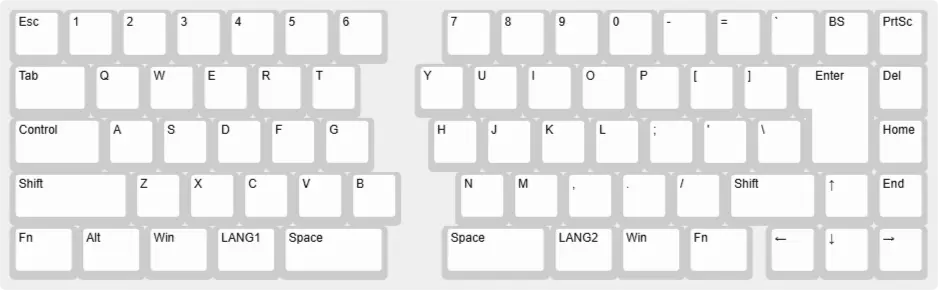
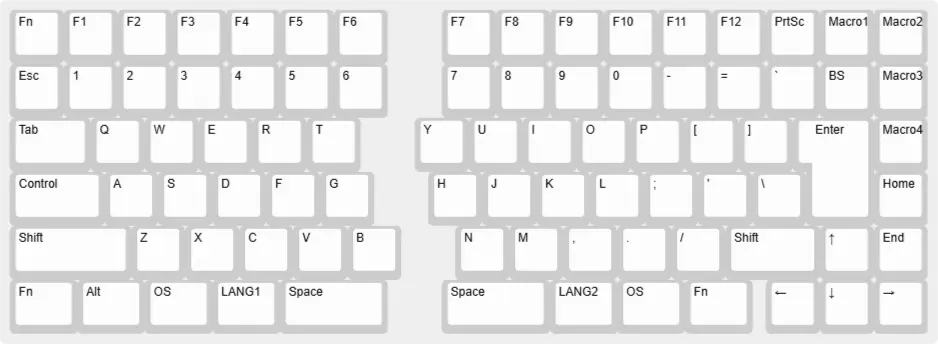
docs: Edit an article

diff --git a/docs/posts/16-J2J.md b/docs/posts/16-J2J.md
@@ -14,14 +14,12 @@ tags:
   - post2026
   - arduino
   - ccpp
-  - midi
   - otherdiy
 ---
 
 # 理想の分割キーボードを自作
 
 [<Badge type="tag" text="その他の工作" />](../tags/otherdiy)
-[<Badge type="tag" text="MIDI" />](../tags/midi)
 [<Badge type="tag" text="Arduino" />](../tags/arduino)
 [<Badge type="tag" text="C/C++" />](../tags/ccpp)
 
@@ -46,8 +44,8 @@ tags:
 JIS配列のREALFORCEのスライダーをCherry MX軸に総交換して、Windows側の設定でUS配列キーボードとして認識させて
 
 - US配列
-- ただしEnterキーはISOタイプ
-- 変換・無変換キー（実際にはLANG1・LANG2キー）有り
+- ただし`Enter`キーはISOタイプ
+- 変換・無変換キー（実際には`LANG1`、`LANG2`キー）有り
 
 として2年ほど愛用してきたのですが、これの分割バージョンが欲しくなりました。
 
@@ -56,10 +54,10 @@ JIS配列のREALFORCEのスライダーをCherry MX軸に総交換して、Windo
     '/images/2026/16-02.webp'
   ]"
   type="double"
-  caption="ｼﾃ…ｺﾛｼﾃ…されたREALFORCE R3S。キーキャップがかわいい"
+  caption="ｼﾃ…ｺﾛｼﾃ…されたREALFORCE R3S。AliExpressで買ったキーキャップがかわいい"
 />
 
-当然そんなものはありません。仕方がないので、_Just the Two of JIS_[^1]と銘打って理想のキーボードを作ってみることにしました。諸々のデータは[GitHub](https://github.com/asumo-1xts/J2J 'Just the Two of JIS')にて公開しています。
+当然そんなものはありません。仕方がないので、_Just the Two of JIS_[^1]と銘打って理想のキーボードを作ってみることにしました。諸々のデータは[GitHub](https://github.com/asumo-1xts/J2J 'J2J')にて公開しており、ここで全部は貼りません。
 
 ### 教材
 
@@ -71,20 +69,20 @@ JIS配列のREALFORCEのスライダーをCherry MX軸に総交換して、Windo
 
 - Windows 11
 - QMK 1.2.0
-- KiCad 9.0.8
+- KiCad 10.0.1
 - FreeCAD 1.1.1
 
 ## 構想
 
-レイアウトから考え始めて、以下のような仕様に落ち着きました。
+キー配列から考え始めて、以下のような仕様に落ち着きました。
 
-| 項目            | 仕様                                                      |
-| --------------- | --------------------------------------------------------- |
-| 接続・給電      | 有線のみ                                                  |
-| レイアウト      | 疑似JIS 64キー<br/>= US 64キー + ISO Enter + LANG1, LANG2 |
-| キーマップ変更  | 可                                                        |
-| ホットスワップ  | 可                                                        |
-| LEDライティング | 不可                                                      |
+| 項目            | 仕様                                                            |
+| --------------- | --------------------------------------------------------------- |
+| 接続・給電      | 有線のみ                                                        |
+| レイアウト      | 疑似JIS 64キー<br/>= US 64キー + ISO `Enter` + `LANG1`, `LANG2` |
+| キーマップ変更  | 可                                                              |
+| ホットスワップ  | 可                                                              |
+| LEDライティング | 可                                                              |
 
 <ImageGroup
   :sources="[
@@ -94,16 +92,53 @@ JIS配列のREALFORCEのスライダーをCherry MX軸に総交換して、Windo
   caption="ありがとう、Keyboard Layout Editor"
 />
 
-また、以前何かの拍子に購入したKailh Deep Sea Silent mini Isletを手元で持て余していたのでロープロファイルで作ることにしました。一応Cherryプロファイル版も温めてはいます。
+また、以前何かの拍子に購入したKailh Deep Sea Silent mini Isletを手元で持て余していたので、ひとまずロープロファイルで作ることにしました。
+
+## PCB基板
+
+とにもかくにも、回路図を引いてPCB基板を設計します。
+
+### ProMicroを諦めよう
+
+自作キーボードのデファクトスタンダードに倣ってSparkFun ProMicroを使う気でいたのですが、キースイッチの裏にProMicroを隠そうとするとキーボードがその分だけ分厚くなってしまうことに気付きました。かと言ってキースイッチの無いところにProMicroを置くと今度はキーボードの面積が大きくなってしまいます。
+
+仕方が無いので、SparkFunが公開しているProMicroの[回路図](https://cdn.sparkfun.com/datasheets/Dev/Arduino/Boards/Pro_Micro_v13b.pdf 'SparkFun ProMicro')を基に、ATmega32u4およびその他の関連部品を自前で基板に直付けすることにしました。
+
+<ImageGroup
+  :sources="[
+    '/images/2026/16-04.webp'
+  ]"
+  type="double"
+  caption="ビアがやけくそすぎる！本職の方々はすごい"
+/>
+
+これには副産物として以下のような嬉しさも付いてきます。
+
+- ProMicroが引き出さずに余らせているATmega32u4のI/Oピンをフル活用できる
+- 別にArduinoとして使うわけではないので、ブートローダーを書き込む苦労について心配しなくて良い
+
+### おすすめフットプリントライブラリ
+
+キースイッチのフットプリントは有志の方々がGitHubに公開してくれているものを使うと良いのですが、如何せん（自作キーボードのコミュニティが広大なおかげで）選択肢が複数あって迷ってしまうかもしれません。私が試した限りでは、「PCBエディタのグリッド間隔を1/8 u (= 19.05/8 mm)にしたとき確実にぴったり並んでくれる」という点において[koktoh](https://github.com/koktoh 'koktoh')氏の公開しているライブラリが最も良かったです。
+
+[BrownSugar Keyboard KiCad Library](@:https://github.com/koktoh/BrownSugar_KBD_KiCad_Library)
+
+Cherry MXシリーズしか収録されていないのでKailh Chocシリーズ等を使う場合には他のライブラリを探す必要がありますが、それでも一旦はこのライブラリのフットプリントで並べておいて後から置換すると確実です。
+
+### 発注
+
+配線を何とか引き回してJLCPCBに発注をかけたら、左右それぞれ5枚ずつでXX円でした。ﾋｰ。
+
+::: tip
+RGBカラーLEDの定番であるWS2812BはJLCPCBのPCBAサービスにおいてエコノミープラン対象外らしく、実装してもらうためには大きめのお金を積んでスタンダードプランで発注する必要があるとのことでした。
+大量生産する訳でもないので、今回は自前で買ってきてはんだ付けしました。
+:::
 
 ## ファームウェア
 
-幸いにも[冒頭](#教材)で紹介した教材では分割キーボードがお手本になっていたので、QMK周りであまり躓かずに済みました。
+幸いにも[教材](#教材)のお手本モデルが分割キーボードだったので、QMK周りであまり躓かずに済みました。QMKは現在も開発が続いており、特にその破壊的変更の影響で新しそうに見えるネット上の情報が少し古かったりします。
 
-ささやかな自分なりのカスタマイズとして、`keymap.c`にて以下の機能を追加しました。
-
-- 現在のレイヤーを2つのLEDの点灯状況でインジケート
-- Mキーをを押しながら電源を入れるとMIDIコントローラ化する
+特に変わったことはしていませんが、ゲーミングな雰囲気は基本的に不要なので`L`キーを押しながら電源を投入したときだけLEDが点灯するようにしました。
 
 ::: code-group
 
@@ -112,29 +147,18 @@ JIS配列のREALFORCEのスライダーをCherry MX軸に総交換して、Windo
 
 // 電源投入時に走る関数
 void keyboard_post_init_user(void) {
-    setPinOutput(LED_LAYER_1);
-    setPinOutput(LED_LAYER_2);
-    flash_led(100);
+	_delay_ms(50); // 安定化を待つ
     matrix_scan();
-    // 8行2列のMキーが押されているかを確認
-    if (matrix_get_row(8) & (1 << 2)) {
-        set_single_default_layer(2);    // レイヤー2をデフォルトに設定
+    // 9行3列のLキーが押されているかを確認
+    if (matrix_get_row(9) & (1 << 3)) {
+        rgblight_enable_noeeprom();
+        for (int i = 0; i < 37; i++) { // 左手側
+            rgblight_sethsv_at(180, 97, 57, i);
+        }
+        for (int i = 37; i < 87; i++) { // 右手側
+            rgblight_sethsv_at(180, 97, 57, i);
+        }
     }
-}
-
-// デフォルトレイヤーが変わったときに呼ばれる関数
-layer_state_t default_layer_state_set_user(layer_state_t state) {
-    if (get_highest_layer(state) == 1) {
-        writePinHigh(LED_LAYER_1);
-        writePinLow(LED_LAYER_2);
-    } else if (get_highest_layer(state) == 2) {
-        writePinLow(LED_LAYER_1);
-        writePinHigh(LED_LAYER_2);
-    } else {
-        writePinLow(LED_LAYER_1);
-        writePinLow(LED_LAYER_2);
-    }
-    return state;
 }
 
 ...
@@ -142,29 +166,13 @@ layer_state_t default_layer_state_set_user(layer_state_t state) {
 
 :::
 
-::: tip
-
-レイヤーや機能を追加するとファームウェアの容量がかなりシビアになります。以下の記事に助けられて何とか95%に収めることができました。
-
-[QMKでPro Micro用のファームを小さくする](@:https://zenn.dev/koron/articles/98324ab760e83a)
-
-:::
-
-## PCB基板
-
-キースイッチのフットプリントは有志の方々がGitHubに公開してくれているものを使うと良いのですが、如何せん（自作キーボードのコミュニティが広大なおかげで）選択肢が複数あって迷ってしまうかもしれません。私が試した限りでは、「PCBエディタのグリッド間隔を1/8 u (= 19.05/8 mm)にしたとき確実にぴったり並んでくれる」という点において[koktoh](https://github.com/koktoh 'koktoh')氏の公開しているライブラリが最も良かったです。
-
-[BrownSugar Keyboard KiCad Library](@:https://github.com/koktoh/BrownSugar_KBD_KiCad_Library)
-
-Cherry MXシリーズしか収録されていないのでKailh Chocシリーズ等を使う場合には他のライブラリを探す必要がありますが、それでも一旦はこのライブラリのフットプリントで並べておいて後から置換すると確実でした。
-
 ## 筐体
 
 ### 設計
 
-当初は基板プレート3枚による単純なサンドイッチ方式を考えていたのですが、周囲にスペーサーを積層して隙間を無くしたいなと思い直し、どうせならプレートと周囲のスペーサーを一体化して3Dプリントするのが良いのでは？というところに落ち着きました。
+当初はPC基板3枚による単純なサンドイッチ方式を考えていたのですが、周囲にスペーサーを積層して隙間を無くしたいなと思い直し、どうせならプレートと周囲のスペーサーを一体化して3Dプリントするのが良いのでは？というところに行き着きました。
 
-私は3DCAD全般があまり好きでないので、KiCadで各階層のパーツを作ってSTEPファイルに書き出してから、それらのアセンブルだけFreeCADで行いました。A2plusというワークベンチを利用して面と穴の拘束条件を2つほど与えれば、所望のアセンブリが完成します。
+私は3DCAD全般があまり得意でないので、KiCadで各階層のパーツを作ってSTEPファイルに書き出してから、それらのアセンブルだけFreeCADで行いました。A2plusというワークベンチを利用して面と穴の拘束条件を2つほど与えると所望のアセンブリが完成します。
 
 todo: ここに画像
 
@@ -176,6 +184,7 @@ KiCadの基板厚はPCBエディタの「ファイル > 基板の設定 > 物理
     '/images/2026/16-05.webp'
   ]"
   type="big"
+  caption="このウィンドウはKiCad v9のものです"
 />
 :::
 
@@ -183,27 +192,27 @@ KiCadの基板厚はPCBエディタの「ファイル > 基板の設定 > 物理
 
 上下方向のクリアランスを考えるのが大変でノイローゼ気味になったので、（よほどの空間把握能力をお持ちでない限りは）ある程度まで煮詰まったら安い材料で発注してしまうのが精神衛生のためかもしれません。こういうのって実物の有無で全然違うなと思います。
 
-私の場合は幸運にも会社の同期が3Dプリンターを持っていて、STEPファイルを渡したら全部やってくれました。ありがとう…
+私の場合は幸運にも会社の同期が3Dプリンターを持っていて、STEPファイルを渡したら全部やってくれました[^3]。ありがとう…
 
 <ImageGroup
   :sources="[
-    '/images/2026/16-04.webp'
+    '/images/2026/16-06.webp'
   ]"
   type="double"
   caption="持つべきものは3Dプリンターを持っている隣人"
 />
 
+なおこれらの固定方法について、3DプリンターでM2ねじのタップを切るのは非現実的っぽかったのでセルフタップを採用しました。表側のアセンブリとPCB基板にはΦ2.0 mmの通し穴を、裏側のアセンブリにはΦ1.6 mmの下穴をそれぞれ開けています。
+
 ### 発注
 
 各アセンブリは最終的に以下のようになりました。
 
-| アセンブリ                 | 役割 / 備考                                                                                                                                                 | 厚み [mm] |
-| -------------------------- | ----------------------------------------------------------------------------------------------------------------------------------------------------------- | --------- |
-| 表面プレート + スペーサー① | キースイッチをはめ込み、PCB基板までの隙間を埋める。<br/>無いことも多いと思われる                                                                            | 1.2 + 1.0 |
-| （PCB基板）                | 最低限これさえあれば良い                                                                                                                                    | 1.6       |
-| スペーサー② + 裏面プレート | 裏面プレートまでの隙間を埋める。<br/>Arduino基板やTRS端子が収まるよう厚めにとっている。裏面プレートはあまり厚くしすぎるとフィラメント代が露骨に嵩むので注意 | 6.3 + 2.1 |
-
-これらの固定方法について、今回はM2ねじでセルフタップすることにしました。表側のアセンブリには直径2.0 mmの通し穴を、裏側のアセンブリには直径1.6 mmの下穴を開けています。
+| アセンブリ                 | 役割 / 備考                                                                                                                           | 厚み [mm] |
+| -------------------------- | ------------------------------------------------------------------------------------------------------------------------------------- | --------- |
+| 表面プレート + スペーサー① | キースイッチをはめ込み、PCB基板までの隙間を埋める。<br/>無いことも多いと思われる                                                      | 1.2 + 1.0 |
+| （PCB基板）                | 最低限これさえあれば良い                                                                                                              | 1.6       |
+| スペーサー② + 裏面プレート | 裏面プレートまでの隙間を埋める。<br/>TRRSジャックが収まればよい。裏面プレートはあまり厚くしすぎるとフィラメント代が露骨に嵩むので注意 | 5.2 + 1.0 |
 
 ## 組み立て・完成
 
@@ -213,10 +222,12 @@ todo: 書く
 
 ## おわりに
 
-ずっと作りたかったので、やり遂げられてそれなりに感慨深いです。[MIDIコントローラのとき](02-HeartLand)と同様、「欲しい仕様のものが無いから自分で作る」という純粋なDIYを遂行することができました。ただし分割キーボードの設計は同じ工程を左右で繰り返すので苦しい時間帯もあり、しばらくはお腹いっぱいかもしれません。
+職業プログラマたるもの、一度はキーボードの自作を…と長らく思っていたのでなかなか感慨深いです。実物を手にしたときのテンションの上がり具合が思っていたよりずっと高い。[MIDIコントローラ](02-HeartLand)然り、「欲しい仕様のものが無いから自分で作る」という純粋なDIYを定期的にやれると良いなと思います。
 
-ちなみに既に職場で使っており、流石にウケが良いです。周囲のプログラマを威嚇したい方は是非。
+ちなみに既に職場で使っており、流石にウケが良いです。皆さんも拘りの自作キーボードで周囲のプログラマを威嚇しましょう。
 
 <br/>
 
 [^1]: _We can make it if we try ..._
+
+[^2]: ファーム容量にもう少し余裕があったらMIDI機能を追加したかった…